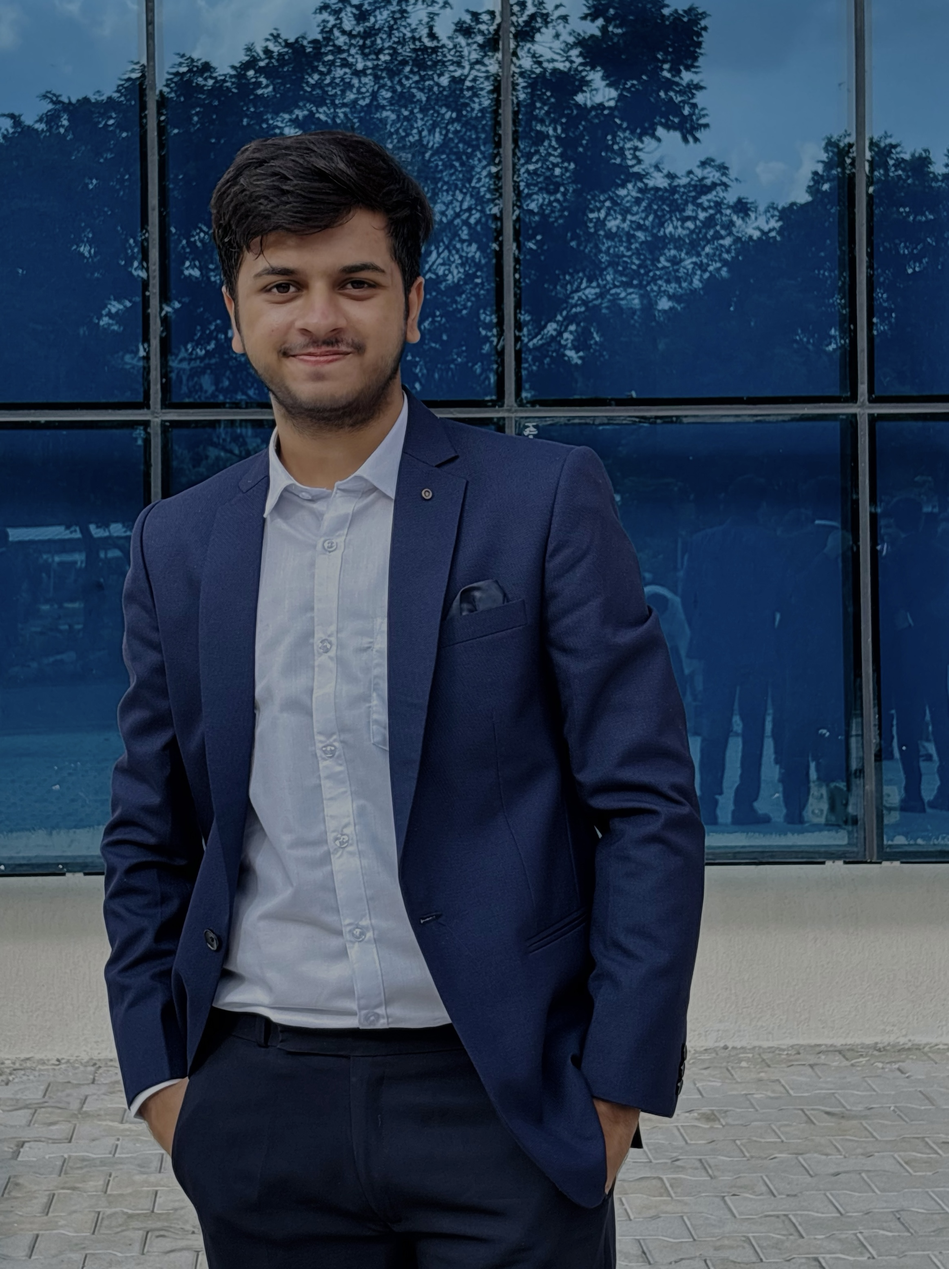
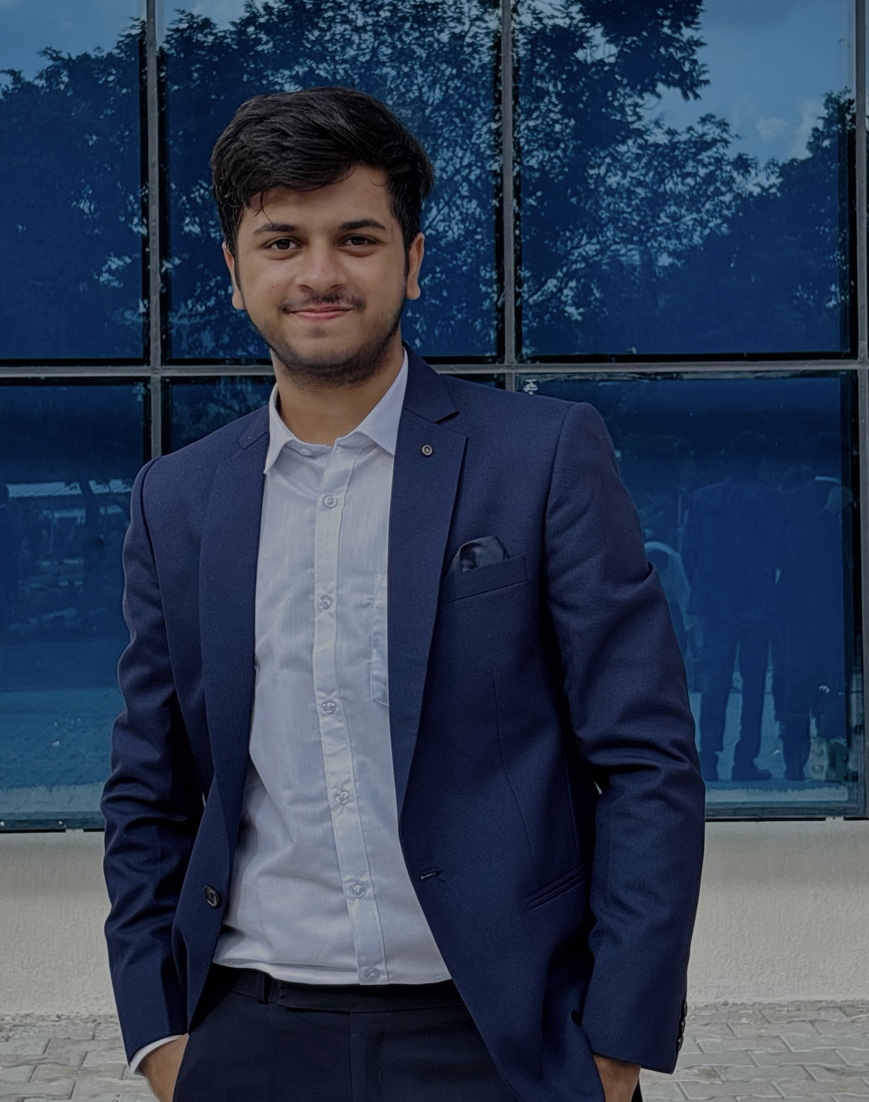
made hero image smaller

diff --git a/src/components/Hero.jsx b/src/components/Hero.jsx
@@ -41,7 +41,7 @@ const Hero = () => {
             viewport={{ once: true }}
             transition={{ duration: 1 }}
             >
-                <TypeAnimation
+                {/* <TypeAnimation
                     sequence={[
                         "Fullstack Dev",
                         1000,
@@ -55,7 +55,7 @@ const Hero = () => {
                     speed={35}
                     repeat={Infinity}
                     className="font-bold text-gray-100 text-2xl md:text-5xl italic mb-4"
-                />
+                /> */}
 
                 <motion.p
                 initial={{ opacity: 0 }}
